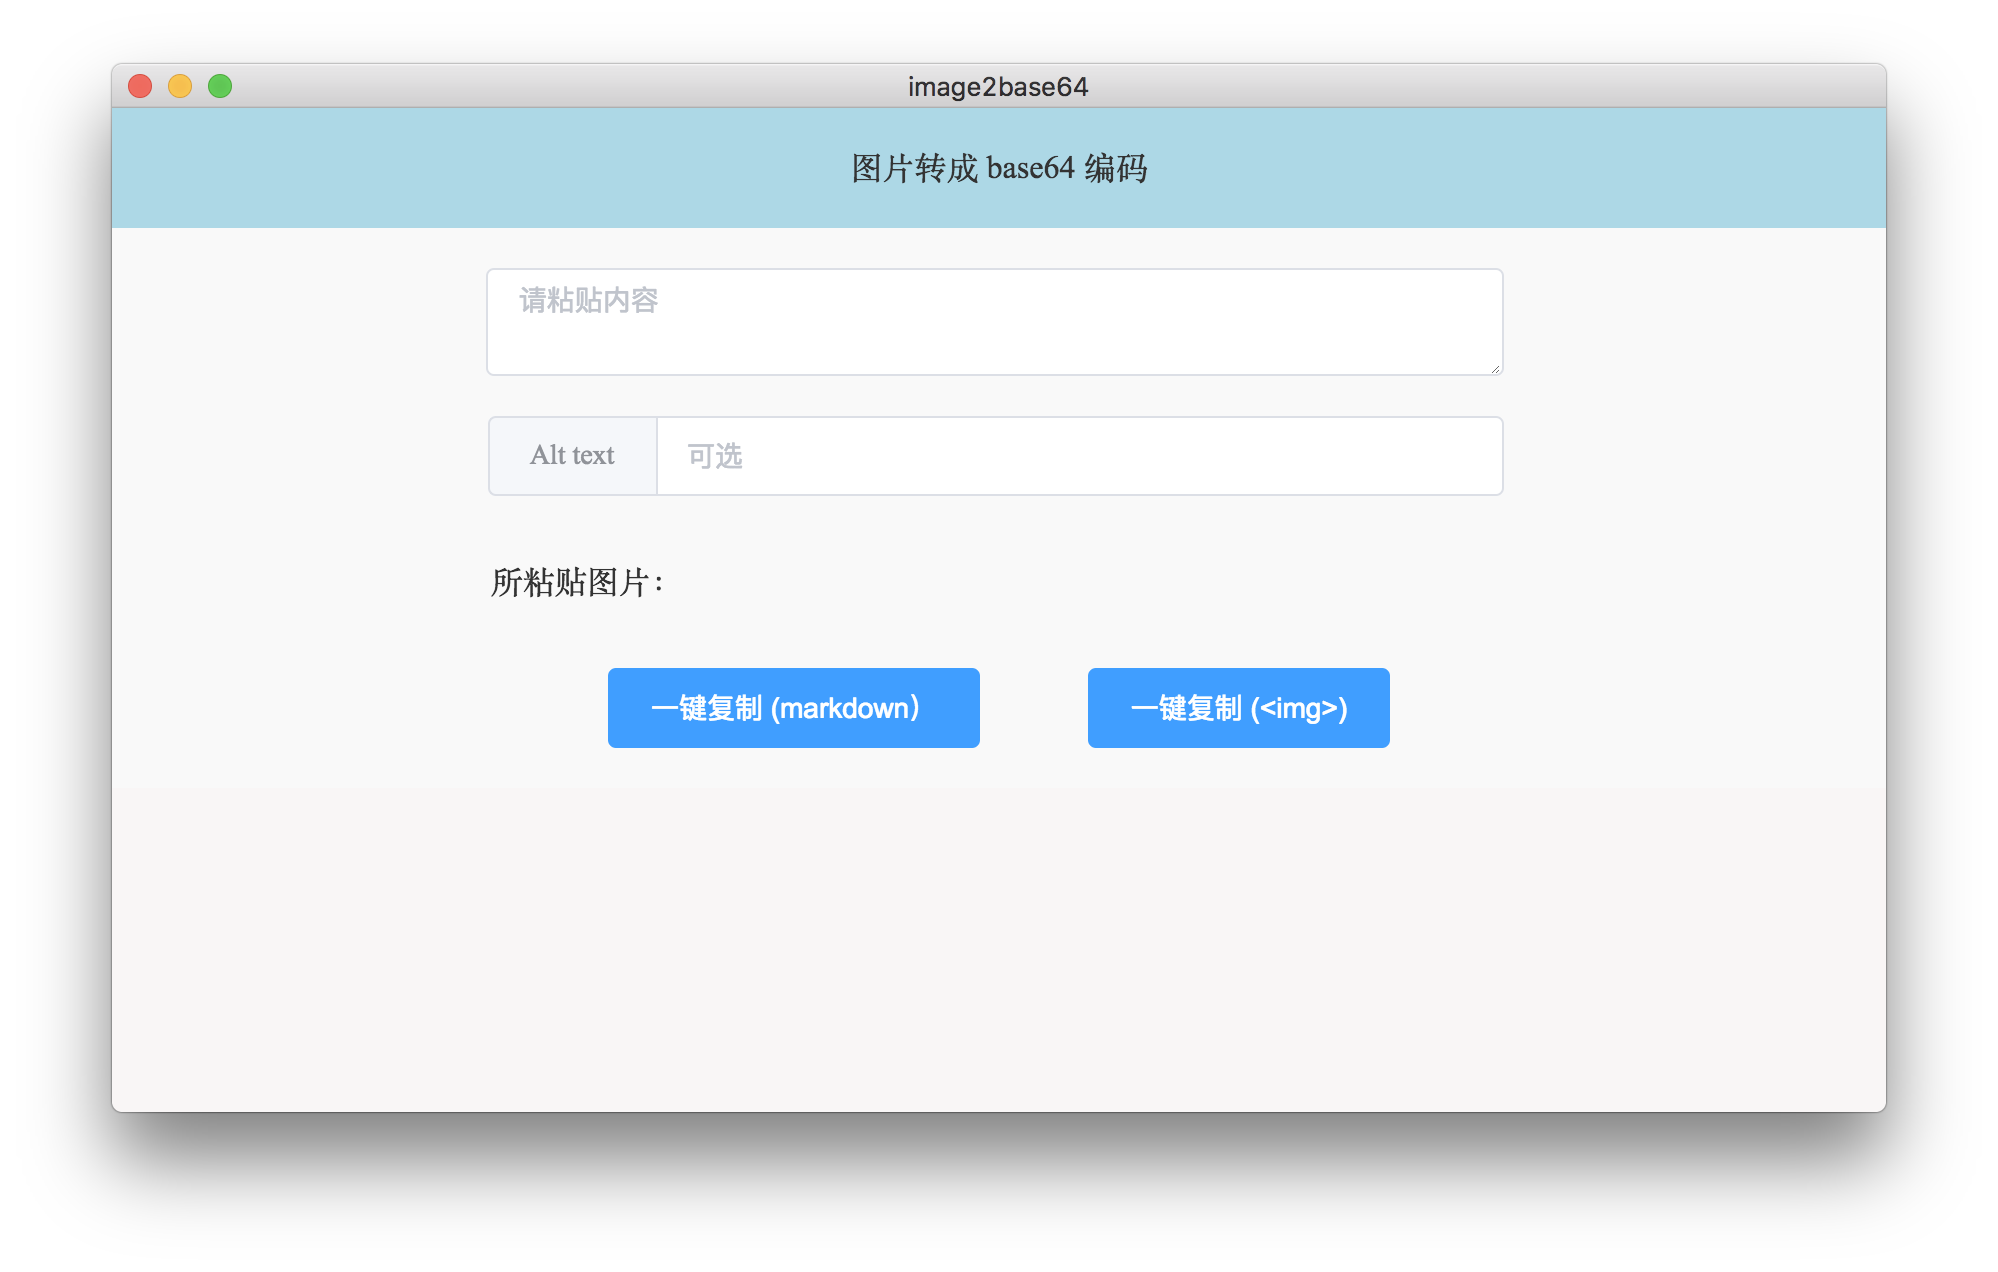
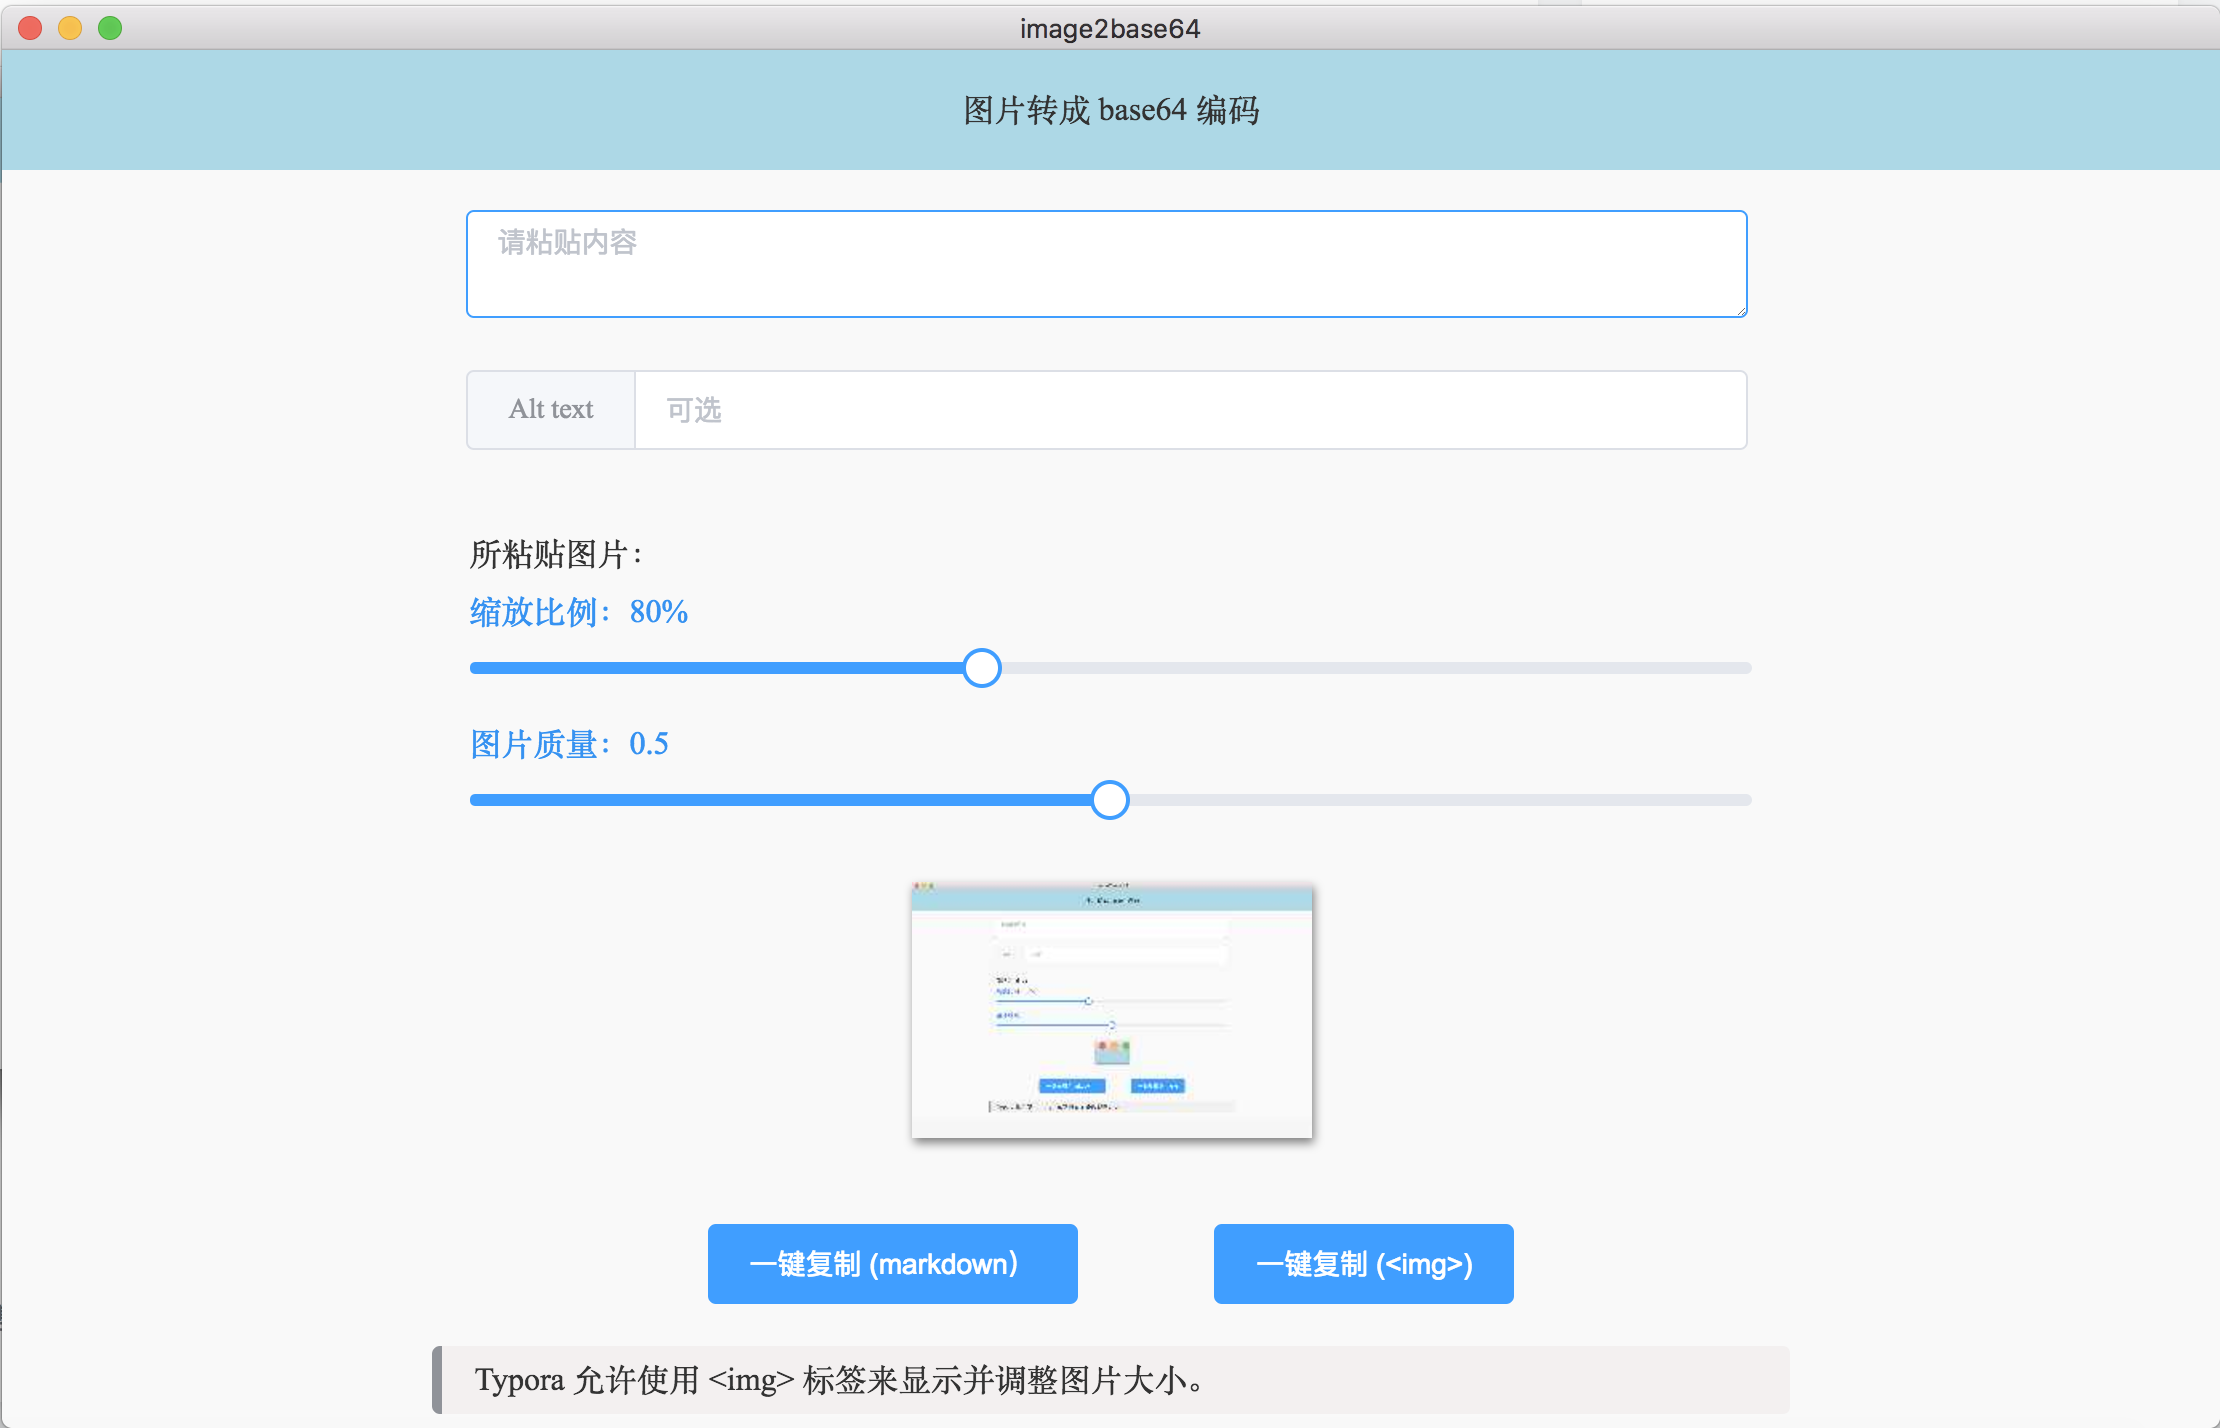
修改 readme

diff --git a/README.md b/README.md
@@ -25,9 +25,9 @@ npm run build:linux
 
 ---
 
-electron 小 demo，用到了 [electron-vue](https://github.com/SimulatedGREG/electron-vue) 这个 vue-cli 模板，主要作用是将剪切板中的图片转成 base64 编码的，并通过一键复制成 img 标签或 markdown 的图片语法。
+electron 小 demo，用到了 [electron-vue](https://github.com/SimulatedGREG/electron-vue) 这个 vue-cli 模板，主要作用是将剪切板中的图片转成 base64 编码的，并通过一键复制成 img 标签或 markdown 的图片语法，可以通过滑块调整图片缩放和压缩率。
 
-编写的目的是，Typora 没有方便的粘贴图片的办法，`![Alt text][]` 如果在其中写入本地图片的相对路径的话，导出成 html 会导致图片消失，另一种办法是在其中写入图片的 base64 编码，所以想写这样一个小程序。
+编写的目的是，Typora 没有方便的粘贴图片的办法，`![Alt text][]` 如果在其中写入本地图片的相对路径的话，导出成 html 会导致图片消失，另一种办法是在其中写入图片的 base64 编码。markdown 中调节图片大小根据编辑器的支持有不同的写法，我用的 typora 只支持基于 <img> 来调节因此我加上了滑动调节大小的功能，又因为转成 base64 后长度很长，因此使用 canvas.toDataURL 的 api 来进行压缩。
 
 demo 的界面：
 
